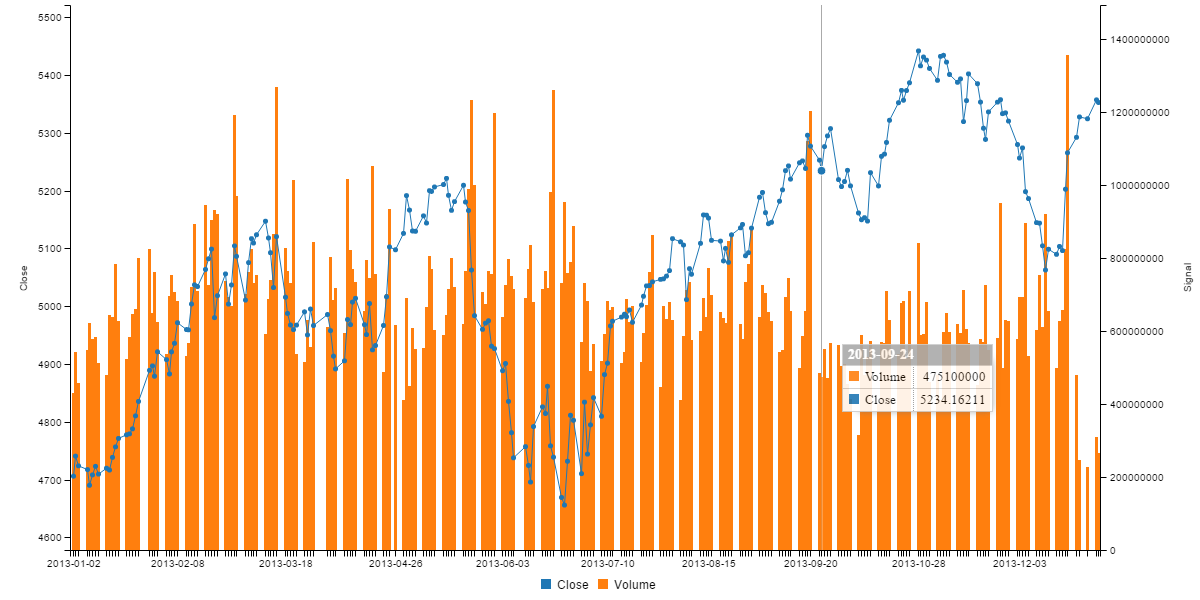
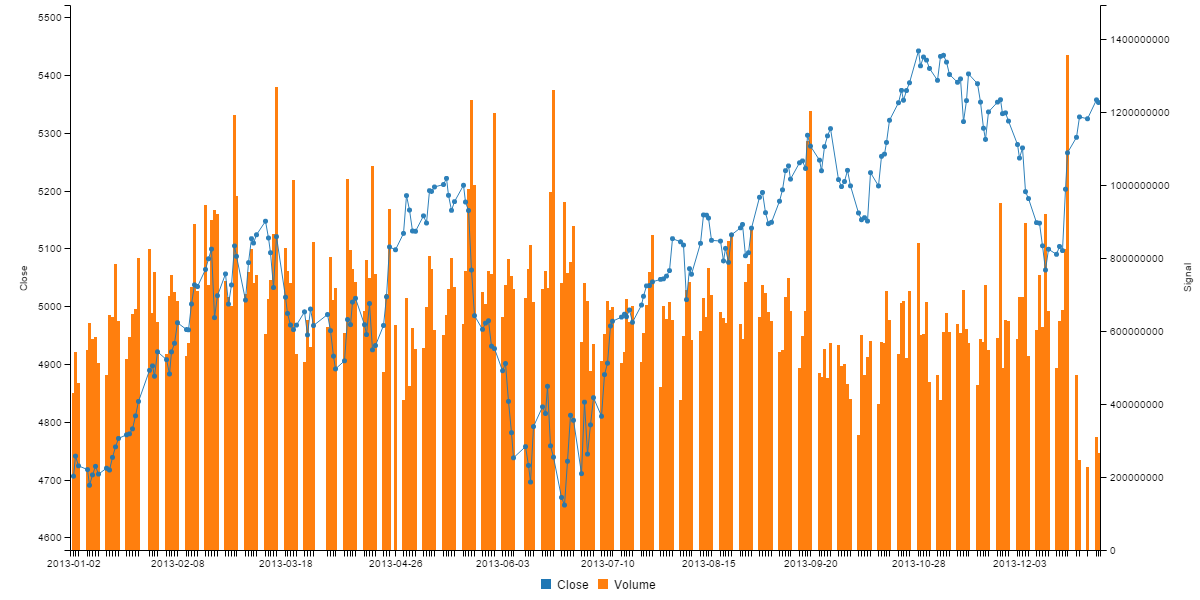
Now uses the C3 'json' field to set data when not using the 'Series' field. This makes more sense and fits better with the way C3 works.

Changed region(s): [[0.6783, 0.57, 0.8325, 0.69]]

diff --git a/index.js b/index.js
@@ -53,7 +53,6 @@ module.exports = function (inputFilePathOrDataFrame, chartTemplateFilePathOrChar
         });
     }
 
-
     nightmare.on('console', function (type, message) {
 
         if (type === 'log') {
@@ -100,13 +99,13 @@ module.exports = function (inputFilePathOrDataFrame, chartTemplateFilePathOrChar
         chart.data = {};
     }
 
-    if (!chart.data.columns) {
-        chart.data.columns = [];
-    }
-
     chart.bindto = "#view";
 
     if (chart.series) {
+        if (!chart.data.columns) {
+            chart.data.columns = [];
+        }
+
         var series = Object.keys(chart.series);
         series.forEach(seriesName => {
             var dataSeries = chart.series[seriesName];
@@ -122,6 +121,9 @@ module.exports = function (inputFilePathOrDataFrame, chartTemplateFilePathOrChar
                 )
             )
         });
+    }
+    else {
+        chart.data.json = dataFrame.toArray();
     }
 
     if (argv.dumpChart) { //TODO: This should be an API option.

diff --git a/example/example-chart.js b/example/example-chart.js
@@ -61,6 +61,9 @@ module.exports = function (dataFrame, argv) {
         },
         "point": {
             "show": false   
+        },
+        "transition": {
+            "duration": 0
         }
     };
 };

diff --git a/README.md b/README.md
@@ -55,10 +55,3 @@ For help please see [this exmple repo](https://github.com/ashleydavis/nodejs-cha
         .catch(err => {
             console.error(err);
         });
-    
-
-## TODO
-
-    Need to be able to merge multiple csv files.
-    Should be able to plug blanks in the chart template with command line parameters.
-    Need to be able to include CSS template for the chart so that it can be styled.
